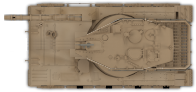
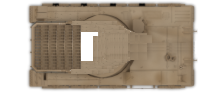
1.29

diff --git a/shooter.py b/shooter.py
@@ -31,8 +31,8 @@ Highscore  = 0
 Leben      = 100
 Waehrung   = 0
 Feinde     = []
-Skinan      = 1
-SkinanK     = 1
+Skinan      = 2
+SkinanK     = 2
 
 #Bider, Sounds import
 Fadenkreuz  = pygame.image.load("Fadenkreuz.png")
@@ -42,12 +42,15 @@ Gameover    = pygame.image.load("Gameover.jpg")
 FeindB      = pygame.image.load("Feind.png")
 Panzer1     = pygame.image.load("PanzerUntersatz.png")
 PanzerK1    = pygame.image.load("PanzerKanonenturm.png")
+Panzer2     = pygame.image.load("Panzer2.png")
+PanzerK2    = pygame.image.load("Panzer2K.png")
 Schliessen  = pygame.image.load("Quit.png")
 Back        = pygame.image.load("Back.png")
 Equip       = pygame.image.load("Equip.png")
 Startb      = pygame.image.load("Start.png")
 Skinb       = pygame.image.load("Skins.png")
 Skin1       = pygame.image.load("T72Skin.png")
+Skin2       = pygame.image.load("Panzer2Skin.png")
 Wonp        = pygame.image.load("win.jpg")
 Schuss      = pygame.mixer.Sound("Schuss.mp3")
 TodG        = pygame.mixer.Sound("TodG.mp3")
@@ -101,9 +104,9 @@ while spielaktiv:
     if SkinanK == 1:
         SkinaK = PanzerK1
     if Skinan == 2:
-        Skina = Back
+        Skina = Panzer2
     if SkinanK == 2:
-        SkinaK = Back
+        SkinaK = PanzerK2
     
     if Skin == True:
         for event in pygame.event.get():
@@ -112,6 +115,8 @@ while spielaktiv:
         window.blit(Back, (30, 80))
         window.blit(Equip, (100, infoObject.current_h/2 +199 +30))
         window.blit(Skin1, (60, infoObject.current_h/2))
+        window.blit(Equip, (100 +411 +100, infoObject.current_h/2 +199 +40))
+        window.blit(Skin2, (60 +411 +60, infoObject.current_h/2))
         MausP = pygame.mouse.get_pos()
         FadenkreuzP = pygame.Rect(MausP[0]-16, MausP[1]-16, 32, 32)
         window.blit(Fadenkreuz, FadenkreuzP)
@@ -137,6 +142,11 @@ while spielaktiv:
                 if MausP[1] > infoObject.current_h/2 +199 +30 and MausP[1] < infoObject.current_h/2 +199 +230:
                     Skinan  = 1
                     SkinanK = 1
+        if mouse[0] and MausP[0] > 200+411 :
+            if MausP[0] < 611 + 200:
+                if MausP[1] > infoObject.current_h/2 +199 +40 and MausP[1] < infoObject.current_h/2 +199 +240:
+                    Skinan  = 2
+                    SkinanK = 2
     else:
         if Start == True:
             for event in pygame.event.get():
